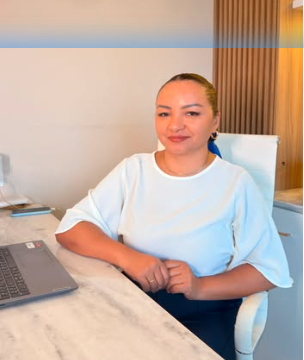
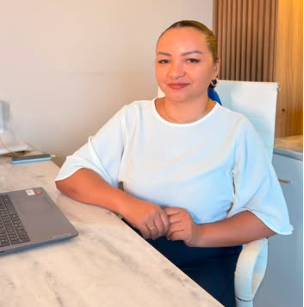
Add files via upload

diff --git a/index.html b/index.html
@@ -266,7 +266,7 @@
       position: relative;
       z-index: 2;
       width: 100%;
-      padding: 40px 24px 56px;
+      padding: 160px 24px 56px;
     }
 
     .hero-badge {
